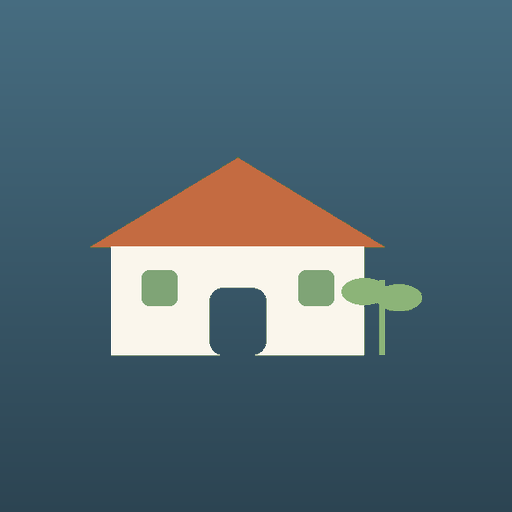
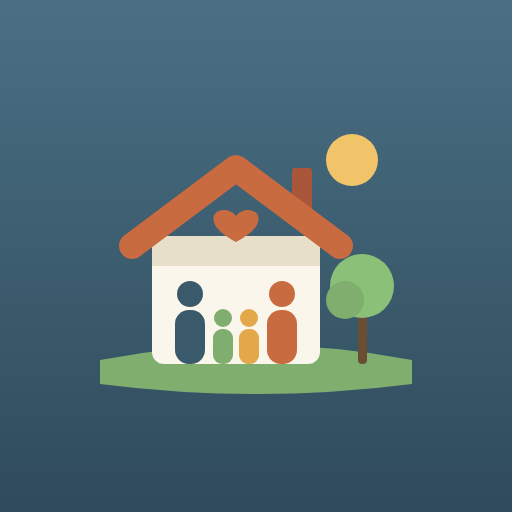
Add files via upload

Changed region(s): [[0.1875, 0.25, 0.8438, 0.7812], [0.375, 0.3438, 0.4062, 0.375], [0.3125, 0.375, 0.3438, 0.4062]]

diff --git a/index.html b/index.html
@@ -55,6 +55,12 @@
     --soil: #eceef0; --bark: #a7acb5;
   }
   * { box-sizing: border-box; margin: 0; padding: 0; }
+  /* Start-Blende: setzt den blauen Android-Startbildschirm fort und blendet weich in die App über (v515) */
+  .start-blende { position: fixed; inset: 0; z-index: 99999; background: #3a5a6b; display: flex; align-items: center; justify-content: center; transition: opacity 0.45s ease; }
+  .start-blende img { width: 160px; height: 160px; border-radius: 50%; }
+  .start-blende.weg { opacity: 0; pointer-events: none; }
+  @media not all and (display-mode: standalone) { .start-blende { display: none; } }
+  @media (prefers-reduced-motion: reduce) { .start-blende { transition: none; } }
   html, body {
     height: 100%; font-family: 'Inter', system-ui, sans-serif;
     background: var(--cream); overflow: hidden;
@@ -253,6 +259,16 @@
 </style>
 </head>
 <body>
+  <div class="start-blende" id="startBlende" aria-hidden="true"><img src="icon-512-maskable.png" alt=""></div>
+  <script>
+    (function () {
+      var b = document.getElementById('startBlende'), fertig = false;
+      function weg() { if (fertig) return; fertig = true; b.classList.add('weg'); setTimeout(function () { if (b.parentNode) b.parentNode.removeChild(b); }, 600); }
+      try { if (sessionStorage.getItem('startBlendeGezeigt')) { b.parentNode.removeChild(b); return; } sessionStorage.setItem('startBlendeGezeigt', '1'); } catch (e) {}
+      window.addEventListener('load', function () { setTimeout(weg, 150); });
+      setTimeout(weg, 2500);
+    })();
+  </script>
   <div class="shell">
     <nav class="modul-nav" id="modulNav" aria-label="Bereiche">
       <!-- Buttons werden per JS erzeugt -->

diff --git a/service-worker.js b/service-worker.js
@@ -1,7 +1,7 @@
 // Gartenplaner Service Worker
 // WICHTIG: CACHE_VERSION bei jedem Update der App-Datei erhöhen (z.B. 'v1' -> 'v2'),
 // sonst bekommen Nutzer weiterhin die alte, zwischengespeicherte Version ausgeliefert.
-const CACHE_VERSION = 'v514';
+const CACHE_VERSION = 'v515';
 const CACHE_NAME = 'planer-cache-' + CACHE_VERSION;
 const FOTO_CACHE = 'planer-fotos'; // Familienfotos, versionsunabhängig
 

diff --git a/neuigkeiten.md b/neuigkeiten.md
@@ -1,6 +1,11 @@
 # Neuigkeiten im Familienplaner
 # Neuer Eintrag: oben einfügen, Kopfzeile genau so:  ## JJJJ-MM-TT | Titel
 
+## 2026-11-25 | 🏡 Neues App-Symbol und schönerer Start
+- Neues App-Symbol: die Familie zu viert in einem Haus mit Herz unterm Dach, dazu Garten, Baum und Sonne
+- Der Startbildschirm ist jetzt in App-Blau statt Creme. Danach blendet die App weich ein, statt hart umzuschalten
+- Hinweis: Android übernimmt das neue Symbol manchmal erst nach einigen Tagen. Schneller geht es, wenn du die App vom Startbildschirm entfernst und über das Browser-Menü neu „Zum Startbildschirm hinzufügen“ wählst
+
 ## 2026-11-24 | 🩺 Garten-Check: Noten für Beete und Garten
 Unter 📅 Planen & Ernten → **Garten-Check** bekommt jedes Beet eine Note von 0 bis 100, mit Ampel und konkreten Tipps:
 - 🤝 **Mischkultur:** gute und ungünstige Nachbarn
